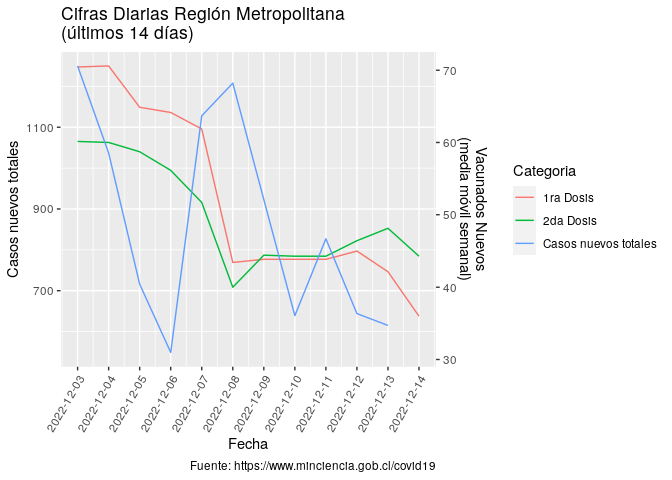
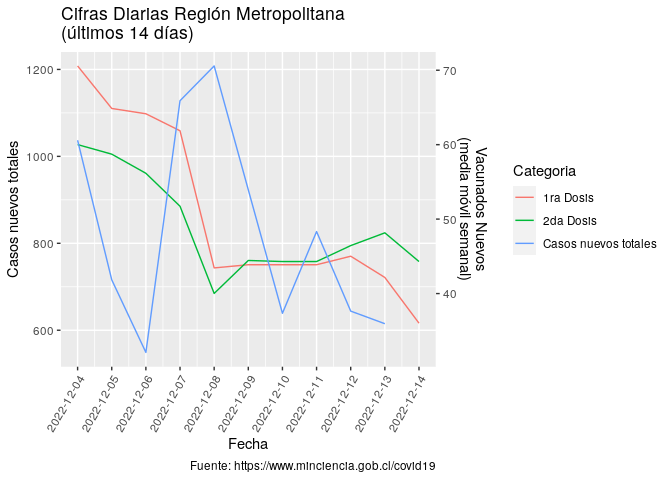
Re-build Rmarkdown files

diff --git a/README.md b/README.md
@@ -3,7 +3,7 @@
 
 Ejemplo de uso de total\_casos de COVID recopilados por el Ministerio de
 Ciencia de Chile <https://www.minciencia.gob.cl/covid19>. Última
-actualización: 2022-12-16
+actualización: 2022-12-17
 
 ## Visualización desde el comienzo de la pandemia
 
